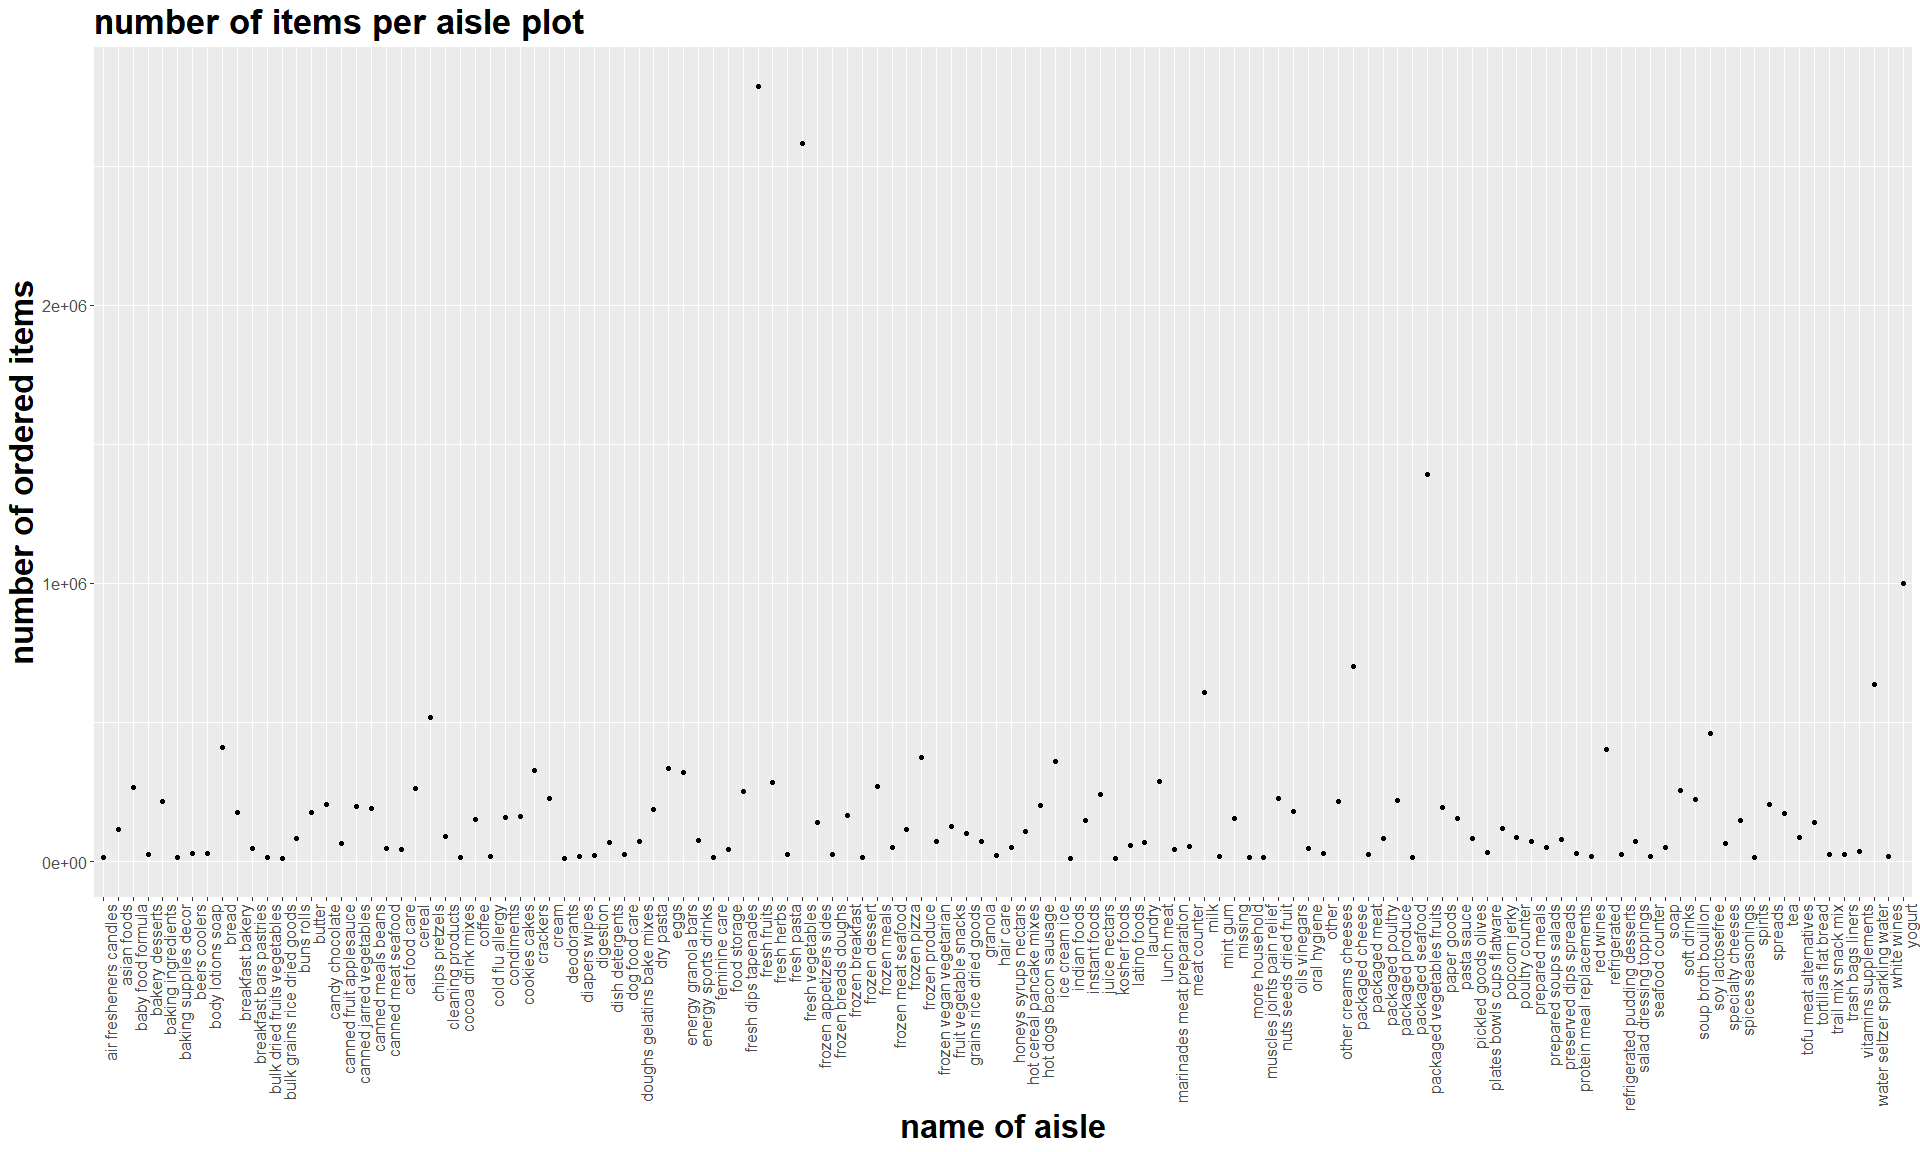
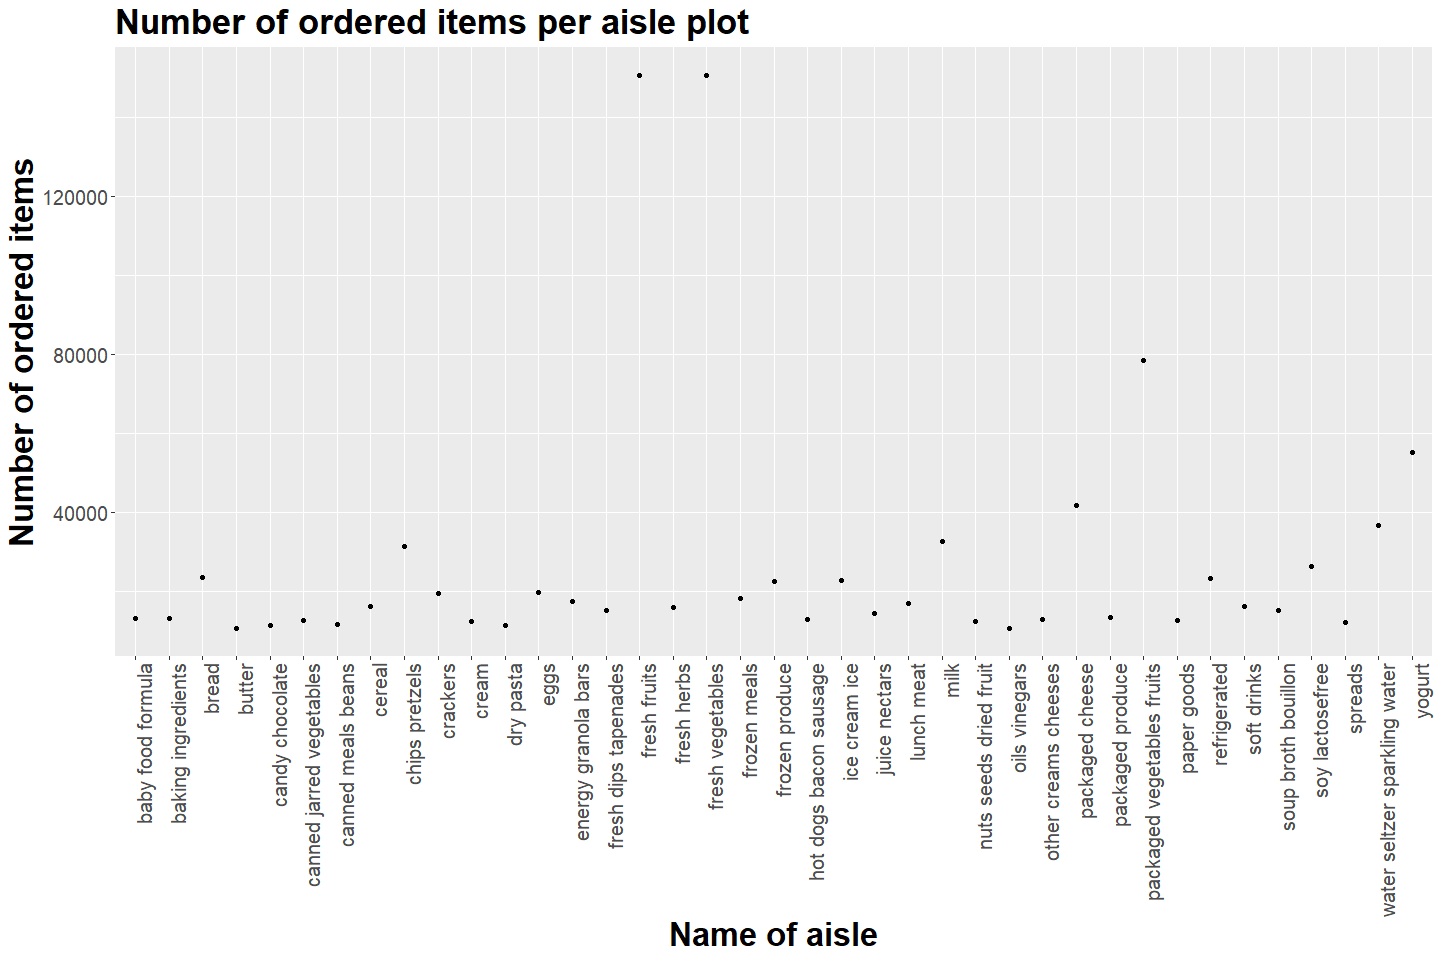
Found understanding mistakes in question 1 and went over it again.

Changed region(s): [[0.0312, 0.6875, 1.0, 1.0], [0.0312, 0.0, 0.5312, 0.0625], [0.0, 0.1562, 0.0938, 0.5938]]

diff --git a/p8104_hw3_zz2603.md b/p8104_hw3_zz2603.md
@@ -26,30 +26,30 @@ pull(instacart,aisle_id) %>% max()
 ## and for the aisle with most ordered products
 instacart %>% 
   group_by(aisle,product_name) %>% 
-  summarize(total_order=sum(order_number)) %>% 
-  filter(min_rank(desc(total_order))<2) %>% 
-  .[which.max(pull(.,total_order)),] %>% pull(aisle)
+  summarize(num_order=n()) %>% 
+  filter(min_rank(desc(num_order))<2) %>% 
+  .[which.max(pull(.,num_order)),] %>% pull(aisle)
 ```
 
     ## [1] "fresh fruits"
 
 ``` r
-## Make a plot that shows the number of items ordered in each aisle, limiting 
-## this to aisles with more than 10000 items ordered. Arrange aisles sensibly,
-## and organize your plot so others can read it.
+## Make a plot that shows the number of items ordered in each aisle, limiting
+## this to aisles with more than 10000 items ordered. Arrange aisles 
+## sensibly,and organize your plot so others can read it.
 instacart %>% 
   group_by(aisle) %>%
-  summarize(total_order=sum(order_number)) %>% 
-  filter(total_order>10000) %>% 
-  ggplot(aes(x=aisle,y=total_order))+geom_point()+
+  summarize(num_order=n()) %>% 
+  filter(num_order>10000) %>% 
+  ggplot(aes(x=aisle,y=num_order))+geom_point()+
   labs(
-    x="name of aisle",
-    y="number of ordered items",
-    title = "number of items per aisle plot"
+    x="Name of aisle",
+    y="Number of ordered items",
+    title = "Number of ordered items per aisle plot"
   )+
   theme(axis.text.x = element_text(angle = 90,hjust=1),
         axis.title = element_text(size = 25,face = "bold"),
-        axis.text = element_text(size=12),
+        axis.text = element_text(size=15),
         plot.title = element_text(size=26,face = "bold"))
 ```
 
